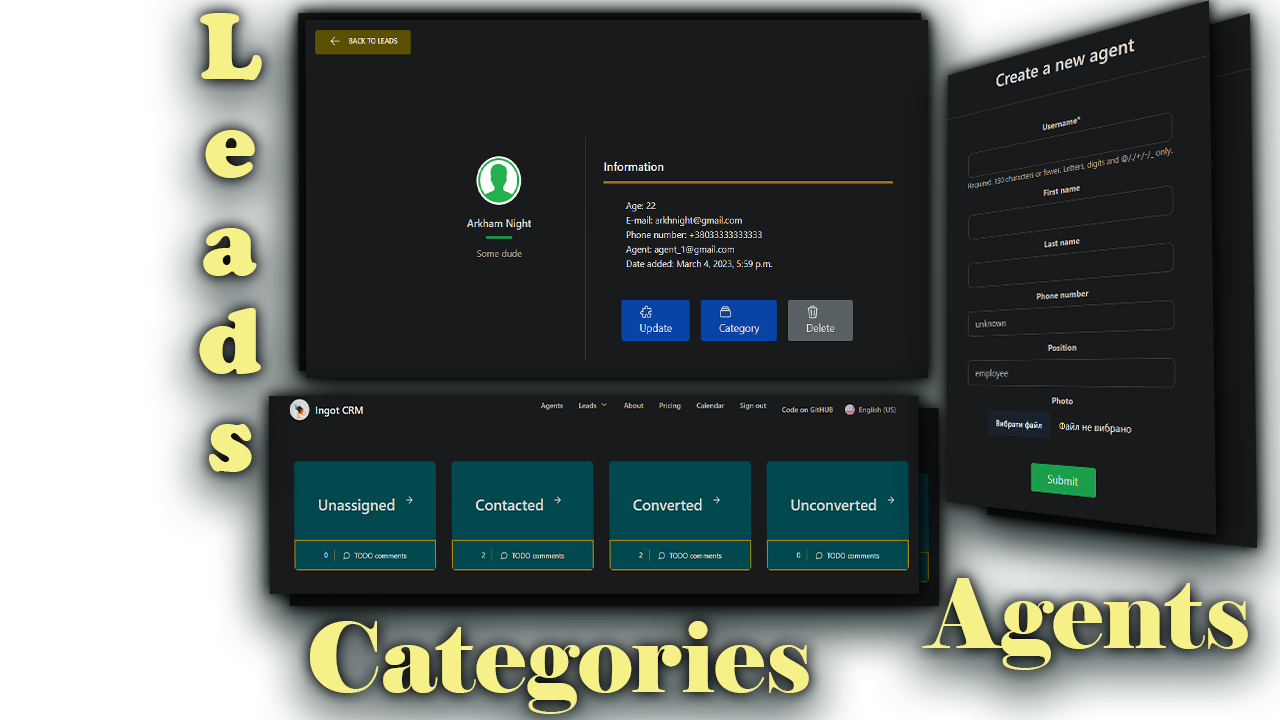
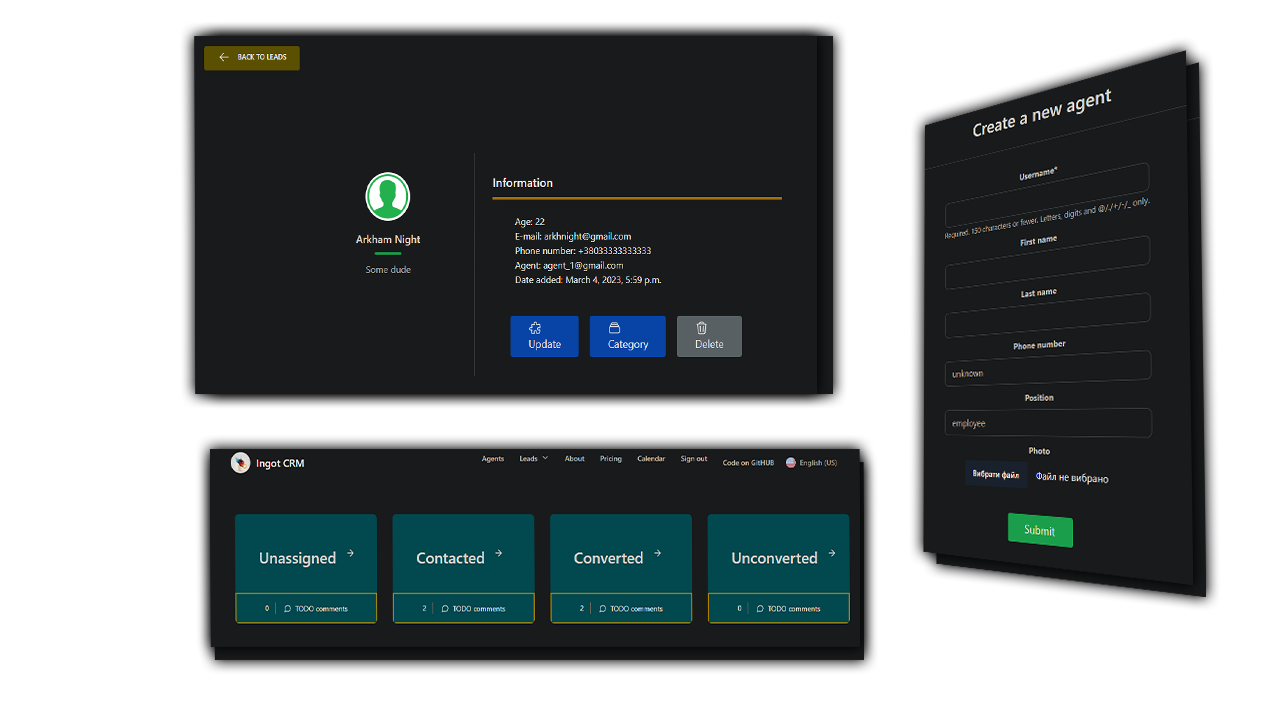
Comment section and page 404
Comments section for lead-detail view and page 404 handler

diff --git a/DjangoWebDev/IngotCRM/ingotcrm/templates/lead_details.html b/DjangoWebDev/IngotCRM/ingotcrm/templates/lead_details.html
@@ -1,4 +1,5 @@
 {% extends "base.html" %}
+{% load tailwind_filters %}
 {% load static %}
 
 {% block content %}
@@ -68,7 +69,7 @@
             <br/><br/>
             <a class="text-green-500 inline-flex items-center">
               <a href="{% url 'leads:lead-update' lead.pk %}">
-              <button class="flex mx-auto ml-8 text-white bg-blue-500 border-0 py-2 px-8 focus:outline-none hover:bg-green-600 rounded text-lg align-center" style="display: block; float: left;">
+              <button class="flex justify-center sm:mx-auto sm:ml-8 text-white bg-blue-500 border-0 py-2 px-8 focus:outline-none hover:bg-green-600 rounded text-lg align-center" style="display: block; float: left;">
               <svg xmlns="http://www.w3.org/2000/svg" fill="none" viewBox="0 0 24 24" stroke-width="1.5" stroke="currentColor" class="w-6 h-6">
                 <path stroke-linecap="round" stroke-linejoin="round" d="M14.25 6.087c0-.355.186-.676.401-.959.221-.29.349-.634.349-1.003 0-1.036-1.007-1.875-2.25-1.875s-2.25.84-2.25 1.875c0 .369.128.713.349 1.003.215.283.401.604.401.959v0a.64.64 0 01-.657.643 48.39 48.39 0 01-4.163-.3c.186 1.613.293 3.25.315 4.907a.656.656 0 01-.658.663v0c-.355 0-.676-.186-.959-.401a1.647 1.647 0 00-1.003-.349c-1.036 0-1.875 1.007-1.875 2.25s.84 2.25 1.875 2.25c.369 0 .713-.128 1.003-.349.283-.215.604-.401.959-.401v0c.31 0 .555.26.532.57a48.039 48.039 0 01-.642 5.056c1.518.19 3.058.309 4.616.354a.64.64 0 00.657-.643v0c0-.355-.186-.676-.401-.959a1.647 1.647 0 01-.349-1.003c0-1.035 1.008-1.875 2.25-1.875 1.243 0 2.25.84 2.25 1.875 0 .369-.128.713-.349 1.003-.215.283-.4.604-.4.959v0c0 .333.277.599.61.58a48.1 48.1 0 005.427-.63 48.05 48.05 0 00.582-4.717.532.532 0 00-.533-.57v0c-.355 0-.676.186-.959.401-.29.221-.634.349-1.003.349-1.035 0-1.875-1.007-1.875-2.25s.84-2.25 1.875-2.25c.37 0 .713.128 1.003.349.283.215.604.401.96.401v0a.656.656 0 00.658-.663 48.422 48.422 0 00-.37-5.36c-1.886.342-3.81.574-5.766.689a.578.578 0 01-.61-.58v0z" />
               </svg>
@@ -77,7 +78,7 @@
             
             {% if request.user.is_organisor %}
               <a href="{% url 'leads:lead-category-update' lead.pk %}">
-              <button class="flex mx-auto ml-8 text-white bg-blue-500 border-0 py-2 px-8 focus:outline-none hover:bg-yellow-600 rounded text-lg align-center" style="display: block; float: left; margin-left: 20px;">
+              <button class="flex sm:mx-auto sm:ml-8 text-white bg-blue-500 border-0 py-2 px-8 focus:outline-none hover:bg-yellow-600 rounded text-lg align-center" style="display: block; float: left;">
               <svg xmlns="http://www.w3.org/2000/svg" fill="none" viewBox="0 0 24 24" stroke-width="1.5" stroke="currentColor" class="w-6 h-6">
                 <path stroke-linecap="round" stroke-linejoin="round" d="M6 6.878V6a2.25 2.25 0 012.25-2.25h7.5A2.25 2.25 0 0118 6v.878m-12 0c.235-.083.487-.128.75-.128h10.5c.263 0 .515.045.75.128m-12 0A2.25 2.25 0 004.5 9v.878m13.5-3A2.25 2.25 0 0119.5 9v.878m0 0a2.246 2.246 0 00-.75-.128H5.25c-.263 0-.515.045-.75.128m15 0A2.25 2.25 0 0121 12v6a2.25 2.25 0 01-2.25 2.25H5.25A2.25 2.25 0 013 18v-6c0-.98.626-1.813 1.5-2.122" />
               </svg>
@@ -85,7 +86,7 @@
               </button></a>
 
               <a href="{% url 'leads:lead-delete' lead.pk %}">
-              <button class="flex mx-auto ml-8 text-white bg-gray-500 border-0 py-2 px-8 focus:outline-none hover:bg-red-600 rounded text-lg align-center" style="display: block; float: left; margin-left: 20px;">
+              <button class="flex sm:mx-auto sm:ml-8 mt-0 sm:mt-2 xl:mt-0 text-white bg-gray-500 border-0 py-2 px-8 focus:outline-none hover:bg-red-600 rounded text-lg align-center" style="display: block; float: left;">
               <svg xmlns="http://www.w3.org/2000/svg" fill="none" viewBox="0 0 24 24" stroke-width="1.5" stroke="currentColor" class="w-6 h-6">
                 <path stroke-linecap="round" stroke-linejoin="round" d="M14.74 9l-.346 9m-4.788 0L9.26 9m9.968-3.21c.342.052.682.107 1.022.166m-1.022-.165L18.16 19.673a2.25 2.25 0 01-2.244 2.077H8.084a2.25 2.25 0 01-2.244-2.077L4.772 5.79m14.456 0a48.108 48.108 0 00-3.478-.397m-12 .562c.34-.059.68-.114 1.022-.165m0 0a48.11 48.11 0 013.478-.397m7.5 0v-.916c0-1.18-.91-2.164-2.09-2.201a51.964 51.964 0 00-3.32 0c-1.18.037-2.09 1.022-2.09 2.201v.916m7.5 0a48.667 48.667 0 00-7.5 0" />
               </svg>
@@ -93,7 +94,7 @@
               </button></a>
 
             {% else %}
-              <button class="flex mx-auto ml-8 text-black bg-gray-500 border-0 py-2 px-8 hover:bg-gray-100 rounded text-lg align-center" style="display: block; float: left; margin-left: 20px;">
+              <button class="flex justify-center mt-0 sm:mt-2 xl:mt-0 sm:mx-auto sm:ml-8 text-black bg-gray-500 border-0 py-2 px-8 hover:bg-gray-100 rounded text-lg align-center" style="display: block; float: left;">
               <svg xmlns="http://www.w3.org/2000/svg" fill="none" viewBox="0 0 24 24" stroke-width="1.5" stroke="currentColor" class="w-6 h-6">
                 <path stroke-linecap="round" stroke-linejoin="round" d="M14.74 9l-.346 9m-4.788 0L9.26 9m9.968-3.21c.342.052.682.107 1.022.166m-1.022-.165L18.16 19.673a2.25 2.25 0 01-2.244 2.077H8.084a2.25 2.25 0 01-2.244-2.077L4.772 5.79m14.456 0a48.108 48.108 0 00-3.478-.397m-12 .562c.34-.059.68-.114 1.022-.165m0 0a48.11 48.11 0 013.478-.397m7.5 0v-.916c0-1.18-.91-2.164-2.09-2.201a51.964 51.964 0 00-3.32 0c-1.18.037-2.09 1.022-2.09 2.201v.916m7.5 0a48.667 48.667 0 00-7.5 0" />
               </svg>
@@ -103,22 +104,35 @@
             {% endif %}
           </div>
         </div>
-        <div>
-            <p class="mb-4 mt-10">
-              <a href="#" class="bg-transparent hover:bg-blue-500 text-blue-700 font-semibold hover:text-white py-2 px-4 border border-blue-500 hover:border-transparent rounded">
-                Add comment
-              </a>
-            </p>
+        <div class="flex">
+          <h2 class="text-black text-xl text-center">Comments ({{ lead.lead_com.count }})</h2>
+        </div>
 
-            {% if lead.lead_com.all %}
-              {% for comment in lead.lead_com.all %}
-                <h3 class="sm:w-1/3 sm:pl-2 text-xm border-b-2 text-black dark:text-white"><strong>{{ comment.author }}</strong> | <small> {{ comment.date_added }} </small></h3>
-                <p class="sm:w-2/3 sm:pl-2 text-xs text-black dark:text-white mb-4">{{ comment.text }}</p>
-              {% endfor %}
-            {% else %}
-              <p><strong>No comments yet...</strong></p>
-            {% endif %}
-          </div>
+        <div class="mt-10 mb-2">
+          {% if lead.lead_com.all %}
+            {% for comment in lead.lead_com.all %}
+            <div class="grid grid-cols-3 sm:grid-cols-6 gap-0 mb-2">
+              <div class="col-span-1">
+                <h3 class="sm:w-1/3 sm:pl-2 text-xm border-b-2 text-black dark:text-white"><strong>{{ comment.author }}</strong></h3><h6><small> {{ comment.date_added }} </small></h6>
+              </div>
+              <div class="col-span-2 border-b-2 border-r-2 border-blue-300 border-transrapent-90">
+                <p class="sm:w-2/3 sm:pl-2 text-xm text-black dark:text-white mb-4">{{ comment.text }}</p>
+              </div>
+            </div>
+            {% endfor %}
+          {% else %}
+            <p><strong>No comments yet...</strong></p>
+          {% endif %}
+        </div>
+        <div>
+          <p class="mb-4 mt-10">
+            <form method="POST" action="{% url 'leads:lead-detail' lead.pk %}" class="post-form">
+              {% csrf_token %}
+              {{ form|crispy }}
+              <button type="submit" class="bg-transparent hover:bg-blue-500 text-blue-700 font-semibold hover:text-white py-2 px-4 border border-blue-500 hover:border-transparent rounded">Add comment</button>
+            </form>
+          </p>
+        </div>
       </div> 
     </div>
   </section>

diff --git a/DjangoWebDev/IngotCRM/ingotcrm/templates/404.html b/DjangoWebDev/IngotCRM/ingotcrm/templates/404.html
@@ -1,0 +1,40 @@
+<!doctype html>
+<html lang="en">
+    <head>
+        <meta charset="utf-8">
+        <meta name="viewport" content="width=device-width, initial-scale=1">
+        <title>404 Error</title>
+        <link rel="stylesheet" href="https://cdnjs.cloudflare.com/ajax/libs/font-awesome/6.0.0/css/all.min.css" />
+        <link rel="stylesheet" href="https://fonts.googleapis.com/css2?family=Inter:wght@300;400;500;600;700&display=swap" />
+        <link rel="stylesheet" href="https://cdn.jsdelivr.net/npm/tw-elements/dist/css/index.min.css" />
+        <script src="https://cdn.tailwindcss.com"></script>
+        <link href="https://cdnjs.cloudflare.com/ajax/libs/flowbite/1.6.4/flowbite.min.css" rel="stylesheet" />
+        <script src="https://cdnjs.cloudflare.com/ajax/libs/flowbite/1.6.4/flowbite.min.js"></script>
+        <script src="https://code.jquery.com/jquery-3.6.0.min.js"></script>
+    </head>
+
+    <body>
+        <section class="bg-white dark:bg-gray-900 ">
+            <div class="container min-h-screen px-6 py-12 mx-auto lg:flex lg:items-center lg:gap-12">
+                <div class="wf-ull lg:w-1/2">
+                    <p class="text-sm font-medium text-blue-500 dark:text-blue-400">404 error</p>
+                    <h1 class="mt-3 text-2xl font-semibold text-gray-800 dark:text-white md:text-3xl">Page not found</h1>
+                    <p class="mt-4 text-gray-500 dark:text-gray-400">Sorry, the page you are looking for doesn't exist. Here are some helpful links:</p>
+
+                    <div class="flex items-center mt-6 gap-x-3">
+                        <a href="{% url 'landing-page' %}">
+                            <button class="w-full flex justify-center px-5 py-2 text-sm tracking-wide text-white transition-colors duration-200 bg-blue-500 rounded-lg shrink-0 sm:w-auto hover:bg-blue-600 dark:hover:bg-blue-500 dark:bg-blue-600">
+                                Take me home
+                            </button>
+                        </a>
+                    </div>
+                </div>
+
+                <div class="relative w-full mt-8 lg:w-1/2 lg:mt-0">
+                    <img class=" w-full lg:h-[32rem] h-80 md:h-96 rounded-lg object-cover" src="https://images.pexels.com/photos/1261728/pexels-photo-1261728.jpeg?auto=compress&cs=tinysrgb&w=1260&h=750&dpr=1" alt="404">
+                    Photo by <a href="https://www.pexels.com/photo/scenic-view-of-mountains-during-dawn-1261728/">Stephan Seeber</a>
+                </div>
+            </div>
+        </section>
+    </body>
+</html>

diff --git a/DjangoWebDev/IngotCRM/ingotcrm/templates/category_detail.html b/DjangoWebDev/IngotCRM/ingotcrm/templates/category_detail.html
@@ -14,29 +14,31 @@
     </div>
   </div>
 
-  <h1 class="title-font sm:text-2xl text-4xl text-center font-medium text-black text-b mt-5 mb-3 pt-5 border-b-4 border-yellow-200">{{ category.name }}</h1>
+  <h1 class="title-font sm:text-2xl text-4xl text-center font-medium text-black text-b mt-5 mb-3 pt-5 pb-2 border-b-4 border-gray-200">{{ category.name }}</h1>
   <ul role="list" class="p-6 divide-y divide-slate-200">
-  
+  {% if category.lead_cat.all %}
     {% for lead in category.lead_cat.all %}
-    <a href="{% url 'leads:lead-detail' lead.pk %}">
-      <li class="flex pb-5 pt-5 ml-5 py-4 first:pt-0 last:pb-0 border-2 border-orange-300 border-transparent-90 hover:border-2 hover:border-blue-600 mb-3 px-5">
-          {% if lead.photo %}
-            <img src="{{ lead.photo.url }}" alt="{% static 'images\UserPhoto.jpg' %}" class="h-12 w-12" style="border-radius: 50%;"/>
-          {% else %}
-            <img src="{% static 'images\UserPhoto.jpg' %}" alt="Photo" class="h-12 w-12" style="border-radius: 50%;"/>
-          {% endif %}
-        
-        <div class="ml-3 overflow-hidden">
-          <p class="text-sm font-medium text-slate-900">
-            
-              <h3>{{ lead.first_name }} {{ lead.last_name }}</h3><h5 class="mr-9 text-gray-400"><h5>
-            
-          </p>
-          <p class="text-sm text-slate-500 truncate">{{ lead.email }}</p>
-        </div>
-      </li>
-    </a>
-  
-  {% endfor %}
+      <a href="{% url 'leads:lead-detail' lead.pk %}">
+        <li class="flex pb-5 pt-5 ml-5 py-4 first:pt-0 last:pb-0 hover:border-l-2 hover:border-blue-300 mb-3 px-5">
+            {% if lead.photo %}
+              <img src="{{ lead.photo.url }}" alt="{% static 'images\UserPhoto.jpg' %}" class="h-12 w-12" style="border-radius: 50%;"/>
+            {% else %}
+              <img src="{% static 'images\UserPhoto.jpg' %}" alt="Photo" class="h-12 w-12" style="border-radius: 50%;"/>
+            {% endif %}
+          
+          <div class="ml-3 overflow-hidden">
+            <p class="text-sm font-medium text-slate-900">
+              
+                <h3>{{ lead.first_name }} {{ lead.last_name }}</h3><h5 class="mr-9 text-gray-400"><h5>
+              
+            </p>
+            <p class="text-sm text-slate-500 truncate">{{ lead.email }}</p>
+          </div>
+        </li>
+      </a>
+    {% endfor %}
+  {% else %}
+    <p class="text-sm font-medium text-slate-900"><h3>No matches</h3><h5 class="mr-9 text-gray-400"><h5></p>
+  {% endif %}
     
 {% endblock content %}

diff --git a/DjangoWebDev/IngotCRM/ingotcrm/leads/views.py b/DjangoWebDev/IngotCRM/ingotcrm/leads/views.py
@@ -1,17 +1,19 @@
 from django.core.mail import send_mail
 from django.core.paginator import EmptyPage, PageNotAnInteger, Paginator
-from django.http import HttpResponse
+from django.http import HttpResponse, HttpResponseForbidden
 from django.shortcuts import render, redirect, reverse
 from django.views.generic import (
     TemplateView, ListView, DetailView, 
     CreateView, DeleteView, UpdateView, FormView)
+from django.views import View
 from django.contrib.auth.mixins import LoginRequiredMixin
 
-from .models import Lead, Agent, Category, Document
+from .models import Lead, Agent, Category, Document, LeadComment
 from .forms import (
     LeadForm, LeadModelForm,
     CustomUserCreationForm, AssignAgentForm,
     LeadCategoryUpdateForm, UploadDocumentModelForm,
+    LeadCommentForm,
     )
 from .filters import DocumentFilter
 from agents.mixins import OrganisorRequiredMixin
@@ -19,6 +21,10 @@ from agents.mixins import OrganisorRequiredMixin
 
 DOCUMENTS_PER_PAGE = 2
 LEADS_PER_PAGE = 2
+
+
+def Error404View(request, exception):
+    return render(request, '404.html', {})
 
 
 class LandingPageView(TemplateView):
@@ -69,7 +75,24 @@ class LeadListView(LoginRequiredMixin, ListView):
 class LeadDetailView(LoginRequiredMixin, DetailView):
     template_name = "lead_details.html"
     queryset = Lead.objects.all()
+    form = LeadCommentForm
     context_object_name = "lead"
+
+    def post(self, request, *args, **kwargs):
+        form = LeadCommentForm(request.POST)
+
+        if form.is_valid():
+            lead = self.get_object()
+            form.instance.author = request.user
+            form.instance.lead = lead #Lead.objects.get(id=self.kwargs['pk'])
+            form.save()
+
+            return redirect(reverse("leads:lead-detail", kwargs={"pk": lead.pk}))
+
+    def get_context_data(self, **kwargs):
+        context = super().get_context_data(**kwargs)
+        context["form"] = self.form
+        return context
 
 
 class LeadCreateView(LoginRequiredMixin, CreateView):

diff --git a/DjangoWebDev/IngotCRM/ingotcrm/leads/forms.py b/DjangoWebDev/IngotCRM/ingotcrm/leads/forms.py
@@ -1,5 +1,5 @@
 from django import forms
-from .models import Lead, User, Agent, Document, Category, UserProfile
+from .models import Lead, User, Agent, Document, Category, UserProfile, LeadComment
 from django.contrib.auth.forms import UserCreationForm, UsernameField
 
 
@@ -88,3 +88,15 @@ class UploadDocumentModelForm(forms.ModelForm):
             leads = Lead.objects.filter(organisation=organisation)
             self.fields['lead'].queryset = leads
 
+
+class LeadCommentForm(forms.ModelForm):
+    text = forms.CharField(widget=forms.Textarea(attrs={
+        "class": "md-textarea form-control",
+        "placeholder": "Write your comment here...",
+        "rows": '4',
+        }))
+    class Meta:
+        model = LeadComment
+        fields = [
+            "text",
+        ]

diff --git a/DjangoWebDev/IngotCRM/ingotcrm/leads/models.py b/DjangoWebDev/IngotCRM/ingotcrm/leads/models.py
@@ -61,7 +61,7 @@ class Document(models.Model):
     title = models.CharField(max_length=200, unique=True)
     description = models.TextField()
     is_secret = models.BooleanField(default=False)
-    file = models.FileField(verbose_name=title, validators=[validate_file, ], null=False, blank=False, upload_to="media/")
+    file = models.FileField(validators=[validate_file, ], null=False, blank=False, upload_to="media/")
     date_added = models.DateTimeField(auto_now_add=True)
 
     lead = models.ForeignKey("Lead", null=False, blank=False, on_delete=models.CASCADE)

diff --git a/DjangoWebDev/IngotCRM/ingotcrm/ingotcrm/urls.py b/DjangoWebDev/IngotCRM/ingotcrm/ingotcrm/urls.py
@@ -27,6 +27,7 @@ urlpatterns = [
 
 ]
 
+handler404 = 'leads.views.Error404View'
 
 if settings.DEBUG:
     urlpatterns += static(settings.STATIC_URL, document_root=settings.STATIC_ROOT)
